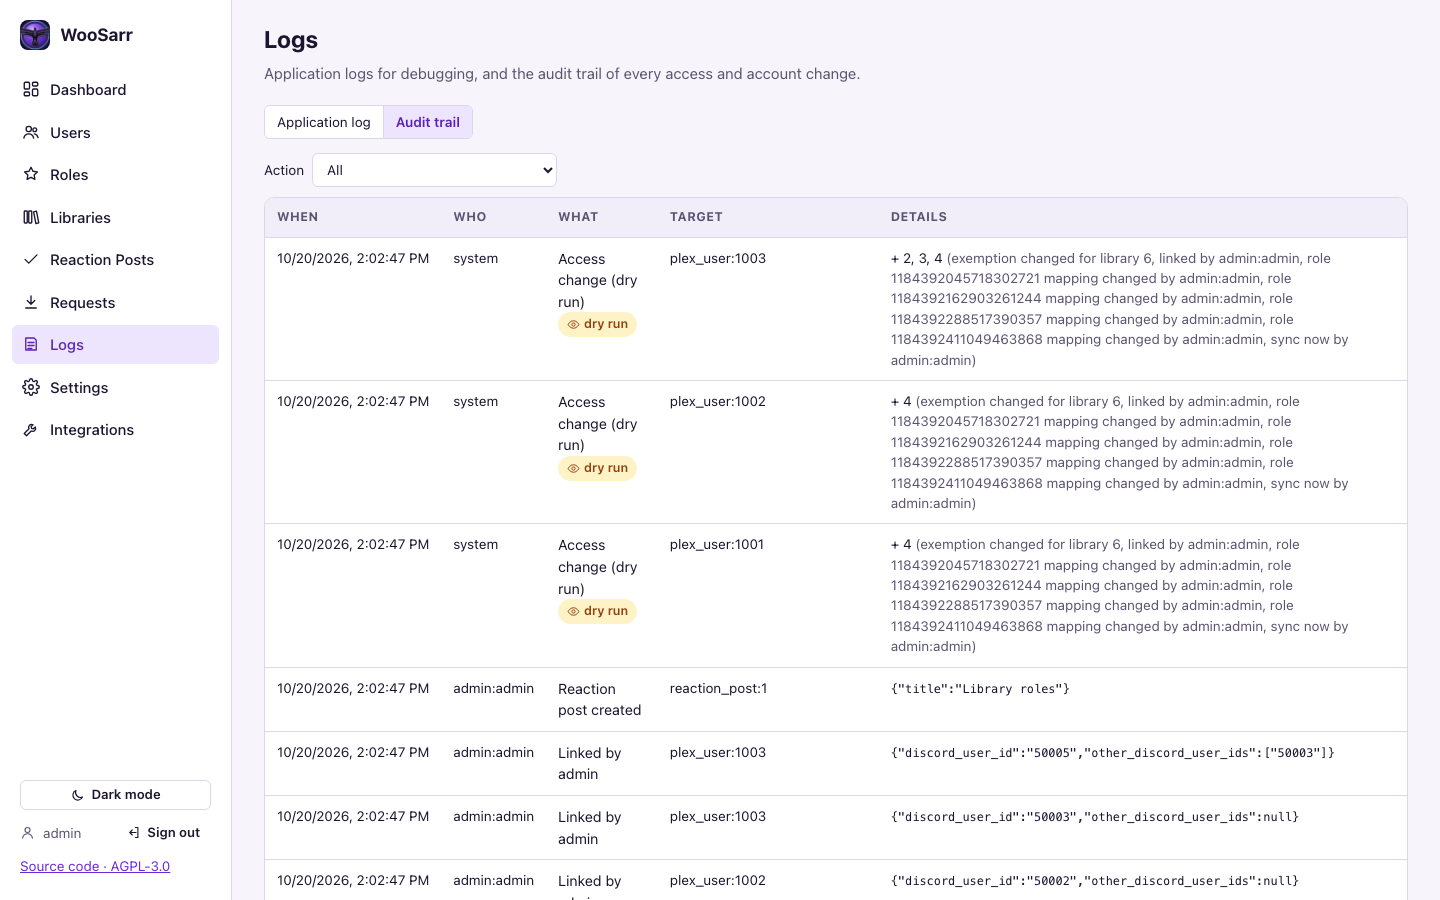
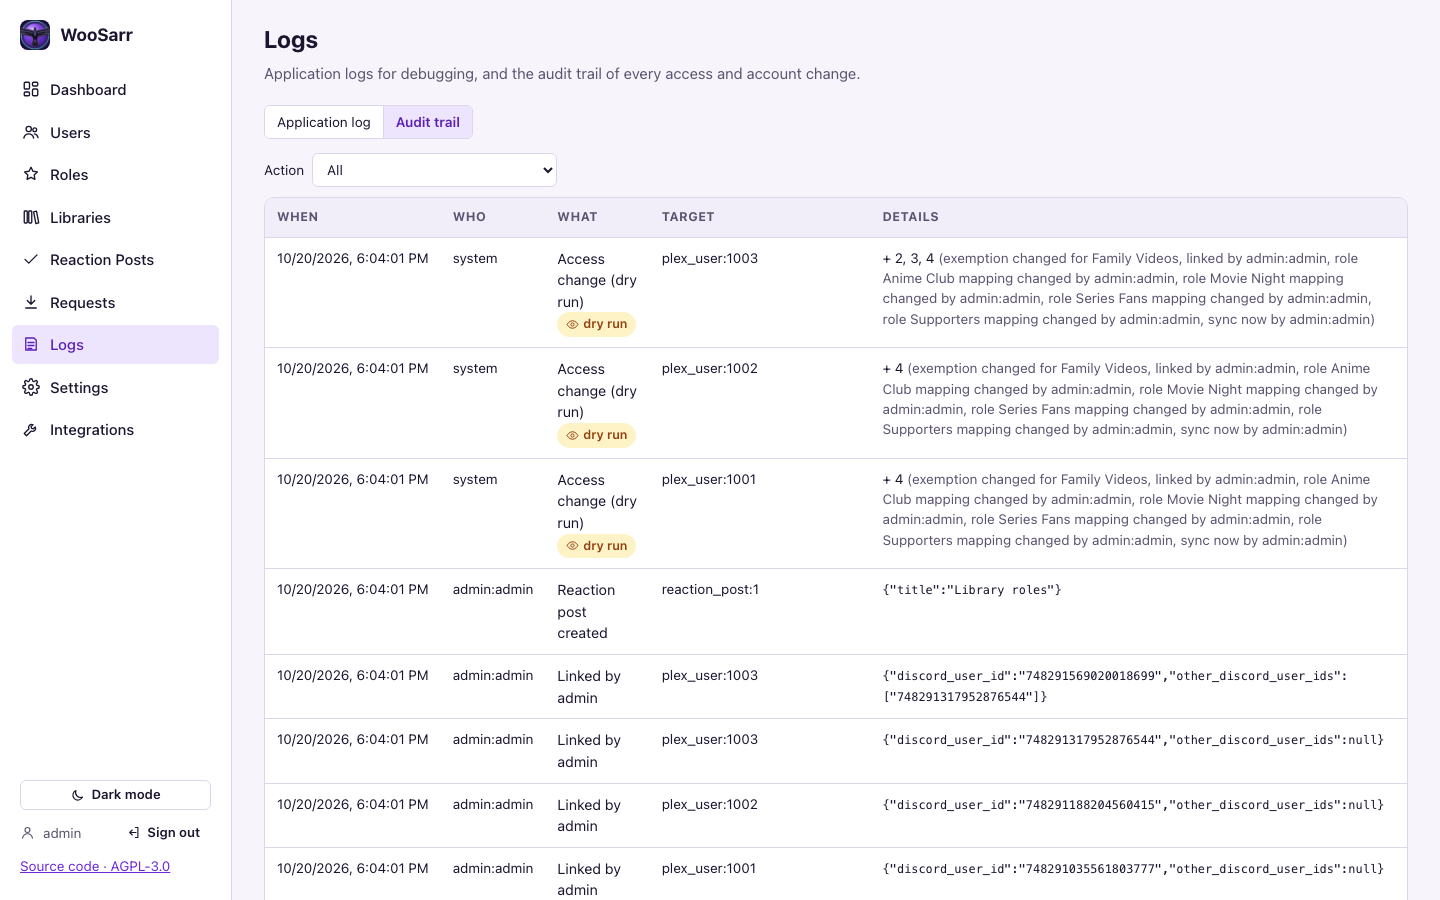
P11-07: demo member ids are Discord-sized; sync reasons use names instead of ids

diff --git a/frontend/e2e/screenshots.shots.ts b/frontend/e2e/screenshots.shots.ts
@@ -42,8 +42,10 @@ async function seed(api: Awaited<ReturnType<typeof client>>) {
   }
   await api("PATCH", "/api/v1/libraries/6", { is_exempt: true }); // Family Videos
   // Links: alice and bob on their own accounts, carol's account shared by a family (Carol + Frank).
-  for (const [plex, discord] of [["1001", "50001"], ["1002", "50002"], ["1003", "50003"], ["1003", "50005"]]) {
-    await api("PUT", `/api/v1/users/${plex}/link`, { discord_user_id: discord });
+  const memberId = Object.fromEntries(((await api("GET", "/api/v1/discord/member-list")) as { discord_user_id: string; display_name: string }[])
+    .map((m) => [m.display_name, m.discord_user_id]));
+  for (const [plex, discord] of [["1001", "Alice"], ["1002", "Bob"], ["1003", "Carol"], ["1003", "Frank"]]) {
+    await api("PUT", `/api/v1/users/${plex}/link`, { discord_user_id: memberId[discord] });
   }
   await api("POST", "/api/v1/reaction-posts", {
     title: "Library roles",
@@ -76,7 +78,7 @@ test("documentation screenshots", async ({ page }) => {
   await seed(api);
   await page.waitForTimeout(2500); // the queued sync runs
 
-  await page.setViewportSize({ width: 1440, height: 1640 }); // the whole default dashboard
+  await page.setViewportSize({ width: 1440, height: 1720 }); // the whole default dashboard
   for (const mode of ["dark", "light"] as const) {
     await theme(page, mode);
     await page.goto("/");

diff --git a/backend/tests/test_domain_api.py b/backend/tests/test_domain_api.py
@@ -1,7 +1,7 @@
 import unittest
 
 from tests.helpers import AppHarness
-from woosarr.dev.demo import MOVIE_NIGHT
+from woosarr.dev.demo import ALICE, BOB, CAROL, MOVIE_NIGHT
 
 
 class DomainApiTests(unittest.TestCase):
@@ -23,14 +23,14 @@ class DomainApiTests(unittest.TestCase):
         self.assertEqual(body["counts"]["libraries"], 6)
 
     def test_link_unlink_and_sources(self):
-        r = self.c.put("/api/v1/users/1001/link", json={"discord_user_id": "50001"})
+        r = self.c.put("/api/v1/users/1001/link", json={"discord_user_id": ALICE})
         self.assertEqual(r.status_code, 200, r.text)
         user = r.json()
         self.assertTrue(user["link"]["verified"])
         self.assertEqual(user["link"]["method"], "admin")
         self.assertEqual({r["name"] for r in user["roles"]}, {"Movie Night", "Series Fans"})
         # Same Discord account can't be linked to a second Plex user.
-        self.assertEqual(self.c.put("/api/v1/users/1002/link", json={"discord_user_id": "50001"}).status_code, 409)
+        self.assertEqual(self.c.put("/api/v1/users/1002/link", json={"discord_user_id": ALICE}).status_code, 409)
         self.assertEqual(self.c.put("/api/v1/users/1002/link", json={"discord_user_id": "abc"}).status_code, 422)
 
         self.c.put(f"/api/v1/roles/{MOVIE_NIGHT}/libraries", json={"library_ids": ["1", "4"]})
@@ -59,23 +59,23 @@ class DomainApiTests(unittest.TestCase):
         self.assertLess(titles.index("anime"), titles.index("Zoo"))
 
     def test_admin_adds_and_removes_family_members(self):
-        self.assertEqual(self.c.put("/api/v1/users/1001/link", json={"discord_user_id": "50001"}).status_code, 200)
-        r = self.c.put("/api/v1/users/1001/link", json={"discord_user_id": "50002"})
+        self.assertEqual(self.c.put("/api/v1/users/1001/link", json={"discord_user_id": ALICE}).status_code, 200)
+        r = self.c.put("/api/v1/users/1001/link", json={"discord_user_id": BOB})
         self.assertEqual(r.status_code, 200, r.text)
         user = r.json()
-        self.assertEqual(sorted(x["discord_user_id"] for x in user["links"]), ["50001", "50002"])
+        self.assertEqual(sorted(x["discord_user_id"] for x in user["links"]), [ALICE, BOB])
         self.assertEqual(self.c.get("/api/v1/status").json()["counts"]["linked_users"], 1)  # one account
         self.assertEqual(self.c.delete("/api/v1/users/1001/link").status_code, 422)  # which member?
-        self.assertEqual(self.c.delete("/api/v1/users/1001/link", params={"discord_user_id": "50003"}).status_code, 404)
-        r = self.c.delete("/api/v1/users/1001/link", params={"discord_user_id": "50001"})
+        self.assertEqual(self.c.delete("/api/v1/users/1001/link", params={"discord_user_id": CAROL}).status_code, 404)
+        r = self.c.delete("/api/v1/users/1001/link", params={"discord_user_id": ALICE})
         self.assertEqual(r.status_code, 200, r.text)
-        self.assertEqual([x["discord_user_id"] for x in r.json()["links"]], ["50002"])
-        self.assertEqual(r.json()["link"]["discord_user_id"], "50002")
+        self.assertEqual([x["discord_user_id"] for x in r.json()["links"]], [BOB])
+        self.assertEqual(r.json()["link"]["discord_user_id"], BOB)
         self.assertIsNone(self.c.delete("/api/v1/users/1001/link").json()["link"])  # one left: no need to name it
 
     def test_role_mapping_preview_and_audit(self):
-        self.c.put("/api/v1/users/1001/link", json={"discord_user_id": "50001"})
-        self.c.put("/api/v1/users/1002/link", json={"discord_user_id": "50002"})
+        self.c.put("/api/v1/users/1001/link", json={"discord_user_id": ALICE})
+        self.c.put("/api/v1/users/1002/link", json={"discord_user_id": BOB})
         preview = self.c.post(f"/api/v1/roles/{MOVIE_NIGHT}/preview", json={"library_ids": ["4"]}).json()
         self.assertEqual(preview["users_gaining"], 2)
         self.assertEqual(self.c.post(f"/api/v1/roles/{MOVIE_NIGHT}/preview", json={"library_ids": ["999"]}).status_code, 404)
@@ -123,7 +123,7 @@ class DomainApiTests(unittest.TestCase):
         self.assertEqual(self.c.post("/api/v1/sync", json={}).status_code, 202)
         self.assertEqual(self.c.post("/api/v1/sync", json={"plex_user_ids": ["1001"]}).json()["count"], 1)
         members = self.c.get("/api/v1/discord/members", params={"q": "ali"}).json()
-        self.assertEqual([m["discord_user_id"] for m in members], ["50001"])
+        self.assertEqual([m["discord_user_id"] for m in members], [ALICE])
 
     def test_audit_paging(self):
         for i in range(5):

diff --git a/backend/woosarr/services/discord_bot.py b/backend/woosarr/services/discord_bot.py
@@ -230,19 +230,19 @@ class WooSarrBot(discord.Client):
             return
         pid = await self.service.run_db(cache.member_changed, _member(after))
         if pid:
-            self.service.trigger([pid], f"discord roles changed for {after.id}")
+            self.service.trigger([pid], f"discord roles changed for {after.display_name}")
 
     async def on_member_join(self, member: discord.Member) -> None:
         if self._ours(member.guild):
             pid = await self.service.run_db(cache.member_changed, _member(member))
             if pid:
-                self.service.trigger([pid], f"discord member joined {member.id}")
+                self.service.trigger([pid], f"discord member joined: {member.display_name}")
 
     async def on_raw_member_remove(self, payload: discord.RawMemberRemoveEvent) -> None:
         if payload.guild_id == self.guild_id:
             pid = await self.service.run_db(cache.member_left, str(payload.user.id))
             if pid:
-                self.service.trigger([pid], f"discord member left {payload.user.id}")
+                self.service.trigger([pid], f"discord member left: {payload.user.name}")
 
     async def on_guild_role_create(self, role: discord.Role) -> None:
         if self._ours(role.guild):
@@ -268,7 +268,7 @@ class WooSarrBot(discord.Client):
         if self._ours(role.guild):
             affected = await self.service.run_db(cache.role_deleted, str(role.id))
             if affected:
-                self.service.trigger(affected, f"discord role {role.id} deleted")
+                self.service.trigger(affected, f"discord role {role.name} deleted")
             self.service.schedule_post_refresh()
 
 
@@ -282,7 +282,7 @@ class _UsernameModal(discord.ui.Modal, title="Link with your Plex username"):
     async def on_submit(self, interaction: discord.Interaction) -> None:
         result = await self.service.run_db(link_service.link_by_username, str(interaction.user.id), str(self.name.value))
         if result.ok and result.plex_user_id:
-            self.service.trigger([result.plex_user_id], f"self-link by discord {interaction.user.id}")
+            self.service.trigger([result.plex_user_id], f"self-link by {interaction.user.display_name}")
         await interaction.response.send_message(result.message, ephemeral=True)
 
 

diff --git a/backend/tests/test_sync_service.py b/backend/tests/test_sync_service.py
@@ -31,7 +31,7 @@ class SyncServiceTests(unittest.TestCase):
         with self.db.session() as s:
             inventory.refresh_all(s, self.gw)
             # alice: Movie Night + Series Fans; bob: Movie Night; carol: Anime Club + Supporters
-            for plex, discord, verified in (("1001", "50001", True), ("1002", "50002", False), ("1003", "50003", True)):
+            for plex, discord, verified in (("1001", demo.ALICE, True), ("1002", demo.BOB, False), ("1003", demo.CAROL, True)):
                 s.add(DiscordLink(plex_user_id=plex, discord_user_id=discord, method="oauth" if verified else "username",
                                   verified=verified, linked_by="self"))
             for role, lib in ((demo.MOVIE_NIGHT, "1"), (demo.MOVIE_NIGHT, "4"), (demo.SERIES_FANS, "2"),
@@ -91,7 +91,7 @@ class SyncServiceTests(unittest.TestCase):
         self.live()
         self.svc.run_now(None, "first")
         with self.db.session() as s:
-            member = s.get(DiscordMember, "50003")
+            member = s.get(DiscordMember, demo.CAROL)
             member.role_ids = [demo.ANIME_CLUB]  # carol loses Supporters
         self.svc.run_now(["1003"], "role removed")
         self.assertEqual(self.gw.shares["1003"], {"3", "5"})
@@ -113,13 +113,13 @@ class SyncServiceTests(unittest.TestCase):
         self.live()
         self.svc.run_now(None, "first")
         with self.db.session() as s:
-            s.get(DiscordMember, "50001").in_guild = False
+            s.get(DiscordMember, demo.ALICE).in_guild = False
             s.add(ManualGrant(plex_user_id="1001", library_id="2", granted_by="admin:x"))
         self.svc.run_now(["1001"], "left")
         self.assertEqual(self.gw.shares["1001"], {"2"})  # role access dropped, manual kept
         with self.db.session() as s:
             app_settings.update(s, {"leave_policy": "keep_all"})
-            s.get(DiscordMember, "50002").in_guild = False
+            s.get(DiscordMember, demo.BOB).in_guild = False
         before = set(self.gw.shares["1002"])
         self.svc.run_now(["1002"], "left")
         self.assertEqual(self.gw.shares["1002"], before)

diff --git a/backend/tests/test_discord_events.py b/backend/tests/test_discord_events.py
@@ -65,7 +65,7 @@ class DiscordEventTests(unittest.TestCase):
         self.fire(self.bot.on_member_join(member(501, [r1])))
         self.triggers.clear()
         self.fire(self.bot.on_member_update(member(501, [r1]), member(501, [r1, r2])))
-        self.assertEqual(self.triggers, [(["11"], "discord roles changed for 501")])
+        self.assertEqual(self.triggers, [(["11"], "discord roles changed for Alice")])
         self.assertEqual(self.roles_of("501"), (["9001", "9002"], True))  # @everyone not stored
 
     def test_unrelated_update_and_other_guilds_ignored(self):
@@ -80,8 +80,8 @@ class DiscordEventTests(unittest.TestCase):
     def test_member_leaves(self):
         self.fire(self.bot.on_member_join(member(501, [role(9001)])))
         self.triggers.clear()
-        self.fire(self.bot.on_raw_member_remove(SimpleNamespace(guild_id=GUILD, user=SimpleNamespace(id=501))))
-        self.assertEqual(self.triggers, [(["11"], "discord member left 501")])
+        self.fire(self.bot.on_raw_member_remove(SimpleNamespace(guild_id=GUILD, user=SimpleNamespace(id=501, name="alice"))))
+        self.assertEqual(self.triggers, [(["11"], "discord member left: alice")])
         self.assertFalse(self.roles_of("501")[1])
 
     def test_role_lifecycle(self):
@@ -94,7 +94,7 @@ class DiscordEventTests(unittest.TestCase):
         with self.db.session() as s:
             self.assertEqual(s.get(DiscordRole, "9001").name, "Film Club")
         self.fire(self.bot.on_guild_role_delete(renamed))
-        self.assertEqual(self.triggers, [(["11"], "discord role 9001 deleted")])
+        self.assertEqual(self.triggers, [(["11"], "discord role Film Club deleted")])
         with self.db.session() as s:
             self.assertTrue(s.get(DiscordRole, "9001").deleted)
             self.assertEqual(s.scalars(select(DiscordMember.role_ids)).one(), [])

diff --git a/backend/tests/test_remove_access.py b/backend/tests/test_remove_access.py
@@ -9,7 +9,7 @@ from tests.helpers import AppHarness
 from tests.test_invite_unlink import Base
 from woosarr.core import app_settings
 from woosarr.db.models import AuditLog, DiscordLink, ManualGrant, PlexUser
-from woosarr.dev.demo import SERIES_FANS
+from woosarr.dev.demo import ALICE, SERIES_FANS
 from woosarr.plex_gateway import PlexUser as GwUser
 
 
@@ -150,7 +150,7 @@ class SettingsImpactTests(Base):
         try:
             c = h.setup_admin()
             h.app.state.sync.run_now(None, "load")
-            c.put("/api/v1/users/1001/link", json={"discord_user_id": "50001"})
+            c.put("/api/v1/users/1001/link", json={"discord_user_id": ALICE})
             c.put(f"/api/v1/roles/{SERIES_FANS}/libraries", json={"library_ids": ["2", "3"]})
             r = c.post("/api/v1/settings/preview", json={"dry_run": False}).json()
             self.assertEqual(r["users_gaining"], 1)

diff --git a/backend/woosarr/dev/demo.py b/backend/woosarr/dev/demo.py
@@ -41,12 +41,18 @@ ROLES = [
     (SUPPORTERS, "Supporters", 0xF1C40F, 2),
     (MODERATORS, "Moderators", 0x2ECC71, 1),
 ]
+# Discord-sized member ids, too.
+ALICE = "748291035561803777"
+BOB = "748291188204560415"
+CAROL = "748291317952876544"
+ERIN = "748291442378301460"
+FRANK = "748291569020018699"
 MEMBERS = [
-    ("50001", "alice_d", "Alice", [MOVIE_NIGHT, SERIES_FANS]),
-    ("50002", "bobby", "Bob", [MOVIE_NIGHT]),
-    ("50003", "carol.c", "Carol", [ANIME_CLUB, SUPPORTERS]),
-    ("50004", "erin_e", "Erin", []),
-    ("50005", "frank", "Frank", [SERIES_FANS]),
+    (ALICE, "alice_d", "Alice", [MOVIE_NIGHT, SERIES_FANS]),
+    (BOB, "bobby", "Bob", [MOVIE_NIGHT]),
+    (CAROL, "carol.c", "Carol", [ANIME_CLUB, SUPPORTERS]),
+    (ERIN, "erin_e", "Erin", []),
+    (FRANK, "frank", "Frank", [SERIES_FANS]),
 ]
 
 

diff --git a/backend/woosarr/api/roles.py b/backend/woosarr/api/roles.py
@@ -237,5 +237,5 @@ def set_role_libraries(role_id: str, body: RoleLibrariesIn, request: Request, db
                  role_name=role.name if role else None, before=sorted(before), after=sorted(wanted),
                  users_gaining=impact.users_gaining, users_losing=impact.users_losing)
     # A mapping change can move the managed universe, so reconcile everyone.
-    request.app.state.sync.trigger(None, f"role {role_id} mapping changed by {principal.actor}")
+    request.app.state.sync.trigger(None, f"role {role.name if role else role_id} mapping changed by {principal.actor}")
     return impact

diff --git a/backend/woosarr/api/libraries.py b/backend/woosarr/api/libraries.py
@@ -62,6 +62,6 @@ def patch_library(library_id: str, body: LibraryPatchIn, request: Request, db: D
         lib.is_exempt = body.is_exempt
         audit.record(db, principal.actor, "library_exempt" if body.is_exempt else "library_unexempt",
                      "library", library_id, title=lib.title)
-        request.app.state.sync.trigger(None, f"exemption changed for library {library_id}")
+        request.app.state.sync.trigger(None, f"exemption changed for {lib.title}")
     db.flush()
     return next(item for item in _all(db) if item.library_id == library_id)

diff --git a/docs/action-plan.md b/docs/action-plan.md
@@ -195,7 +195,7 @@ remove_all       = target empty and current non-empty                # use the r
 - [x] **P7-16** Audit trail labels every audited action (was 13 of ~60; e.g. `reaction_post_created` showed raw), with a readable fallback; `tests/test_audit_labels.py` walks every `audit.record(...)` call (AST) and fails if one has no label. *Verify:* that test.
 - [x] **P7-17** Dashboard *Requests* widget shows who asked: the Plex username the request was made as (else the Discord name, marked "(Discord)"); `recent` in insights carries `plex_username` / `discord_name`. *Verify:* `test_insights`.
 - [x] **P7-18** Users page tabs: **Plex** (the previous page) and **Discord**: server members (`GET /api/v1/discord/member-list?link=`) with roles and Plex link, same filters; bulk **Add roles** / **Remove roles** (`POST /api/v1/discord/members/roles`, ≤ 200 members; roles checked first: exists, not @everyone, not managed, below the bot's top role; per-member results; cache updated and linked accounts synced; audited `discord_roles_changed_admin`) with a Plex impact preview (`…/roles/preview`, `impact.role_change_impact`, ignores dry-run, shared accounts union). New feature `assign_roles` (Manage Roles). Dialog opens for preview even when the bot can't apply (reason shown). *Verify:* `tests/test_discord_members.py`, Playwright `users page Discord tab…` (+ axe), `make screenshots`.
-- [x] **P11-07** Demo role ids are Discord-sized 19-digit snowflakes (`demo.MOVIE_NIGHT` … `demo.MODERATORS`) instead of `9001`–`9005`, so the demo exercises real-length ids (the short ones hid nothing but made a 5-digit minimum look fine); demo-based tests import the constants, the screenshot script looks roles up by name. *Verify:* `make check`, `make e2e`, `make screenshots`.
+- [x] **P11-07** Demo role ids are Discord-sized 19-digit snowflakes (`demo.MOVIE_NIGHT` … `demo.MODERATORS`) instead of `9001`–`9005`, so the demo exercises real-length ids (the short ones hid nothing but made a 5-digit minimum look fine); demo-based tests import the constants, the screenshot script looks roles up by name. Member ids too (`demo.ALICE` … `demo.FRANK`, 18 digits). Real-length ids showed sync reasons ("Last sync", audit) used raw ids; they now use names (role, library, member), ids stay in the log lines; Account alerts keep ids on purpose (display names can be copied). *Verify:* `make check`, `make e2e`, `make screenshots`.
 - [x] **P10-09** Security audit 2026-10-19: `pip-audit`, `npm audit` clean; bandit (no real findings; `assert` in link code replaced with an explicit check); unauthenticated probe of every API route (only `/api/health` answers; `test_every_non_public_route_requires_admin` already enforces it); no raw HTML in the UI, dynamic links server-built or encoded. Fixed: GitHub Actions pinned to SHAs and gitleaks/Trivy images to digests; Dependabot alerts enabled (were off); container hardening (`no-new-privileges` in template, README and smoke test; `compose.yaml` drops all capabilities but CHOWN/DAC_OVERRIDE/SETUID/SETGID, CI restarts the stack). Accepted: base images on tags; role-id list settings accept any string (admin-only; tightening could break stored settings). *Verify:* CI smoke + compose smoke tests; `gh api repos/WoosArr/woosarr/dependabot/alerts`.
 - [ ] **P2-07** **HUMAN** Unraid 8 (announced 2026-08, beta, Fedora/uCore base, native Compose): once the open beta is out, install from `unraid/woosarr.xml` and from `compose.yaml`, open the WebUI, restart and update. Nothing in the image or template is version-specific (no `MinVer`/`MaxVer`). *Verify:* both installs reach the dashboard on Unraid 8.
 
